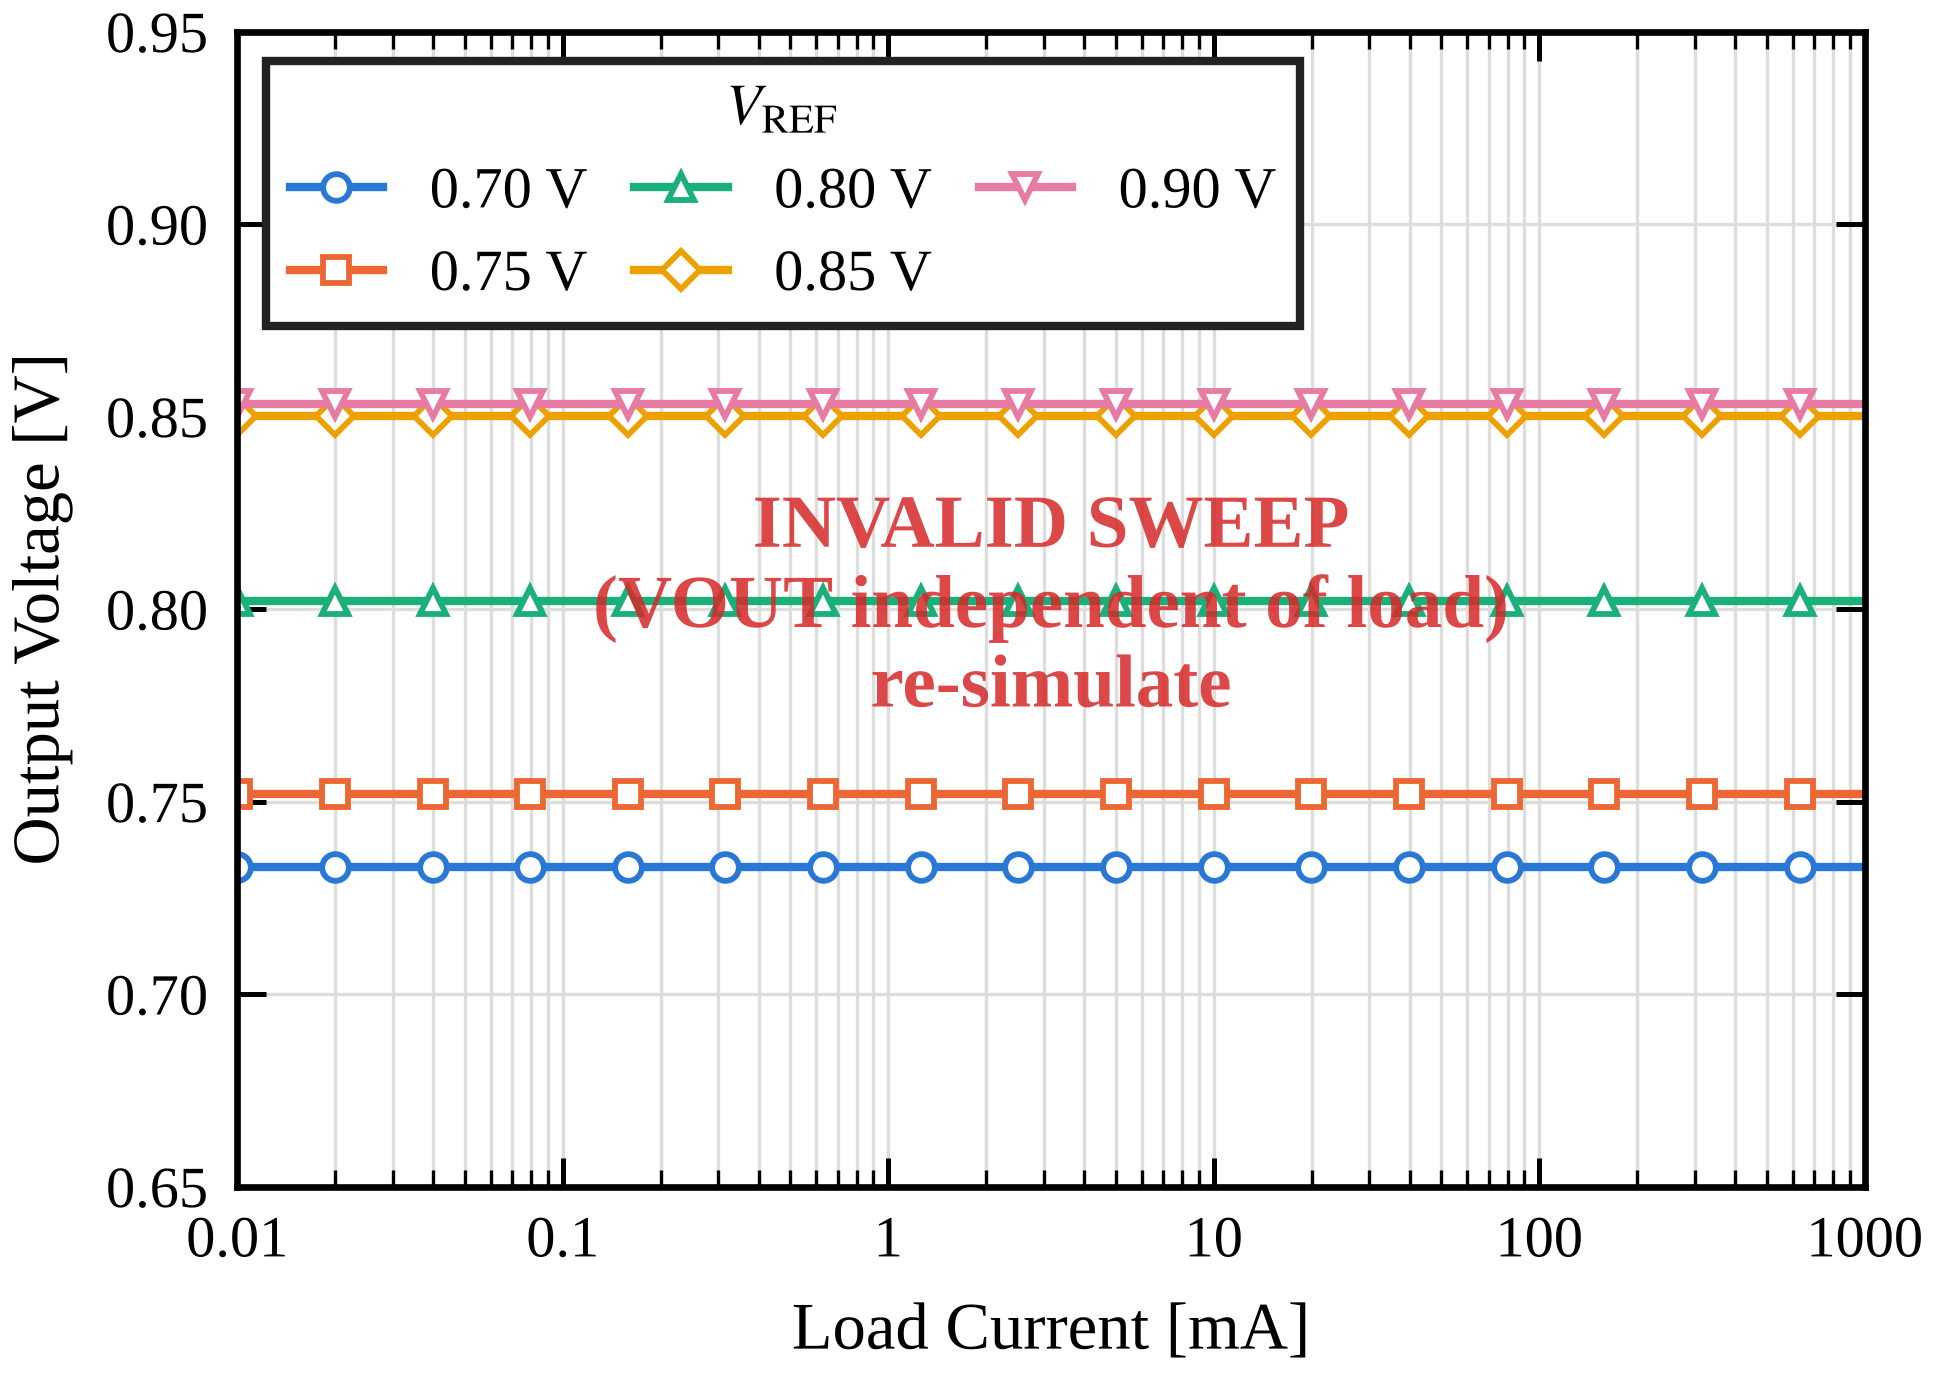
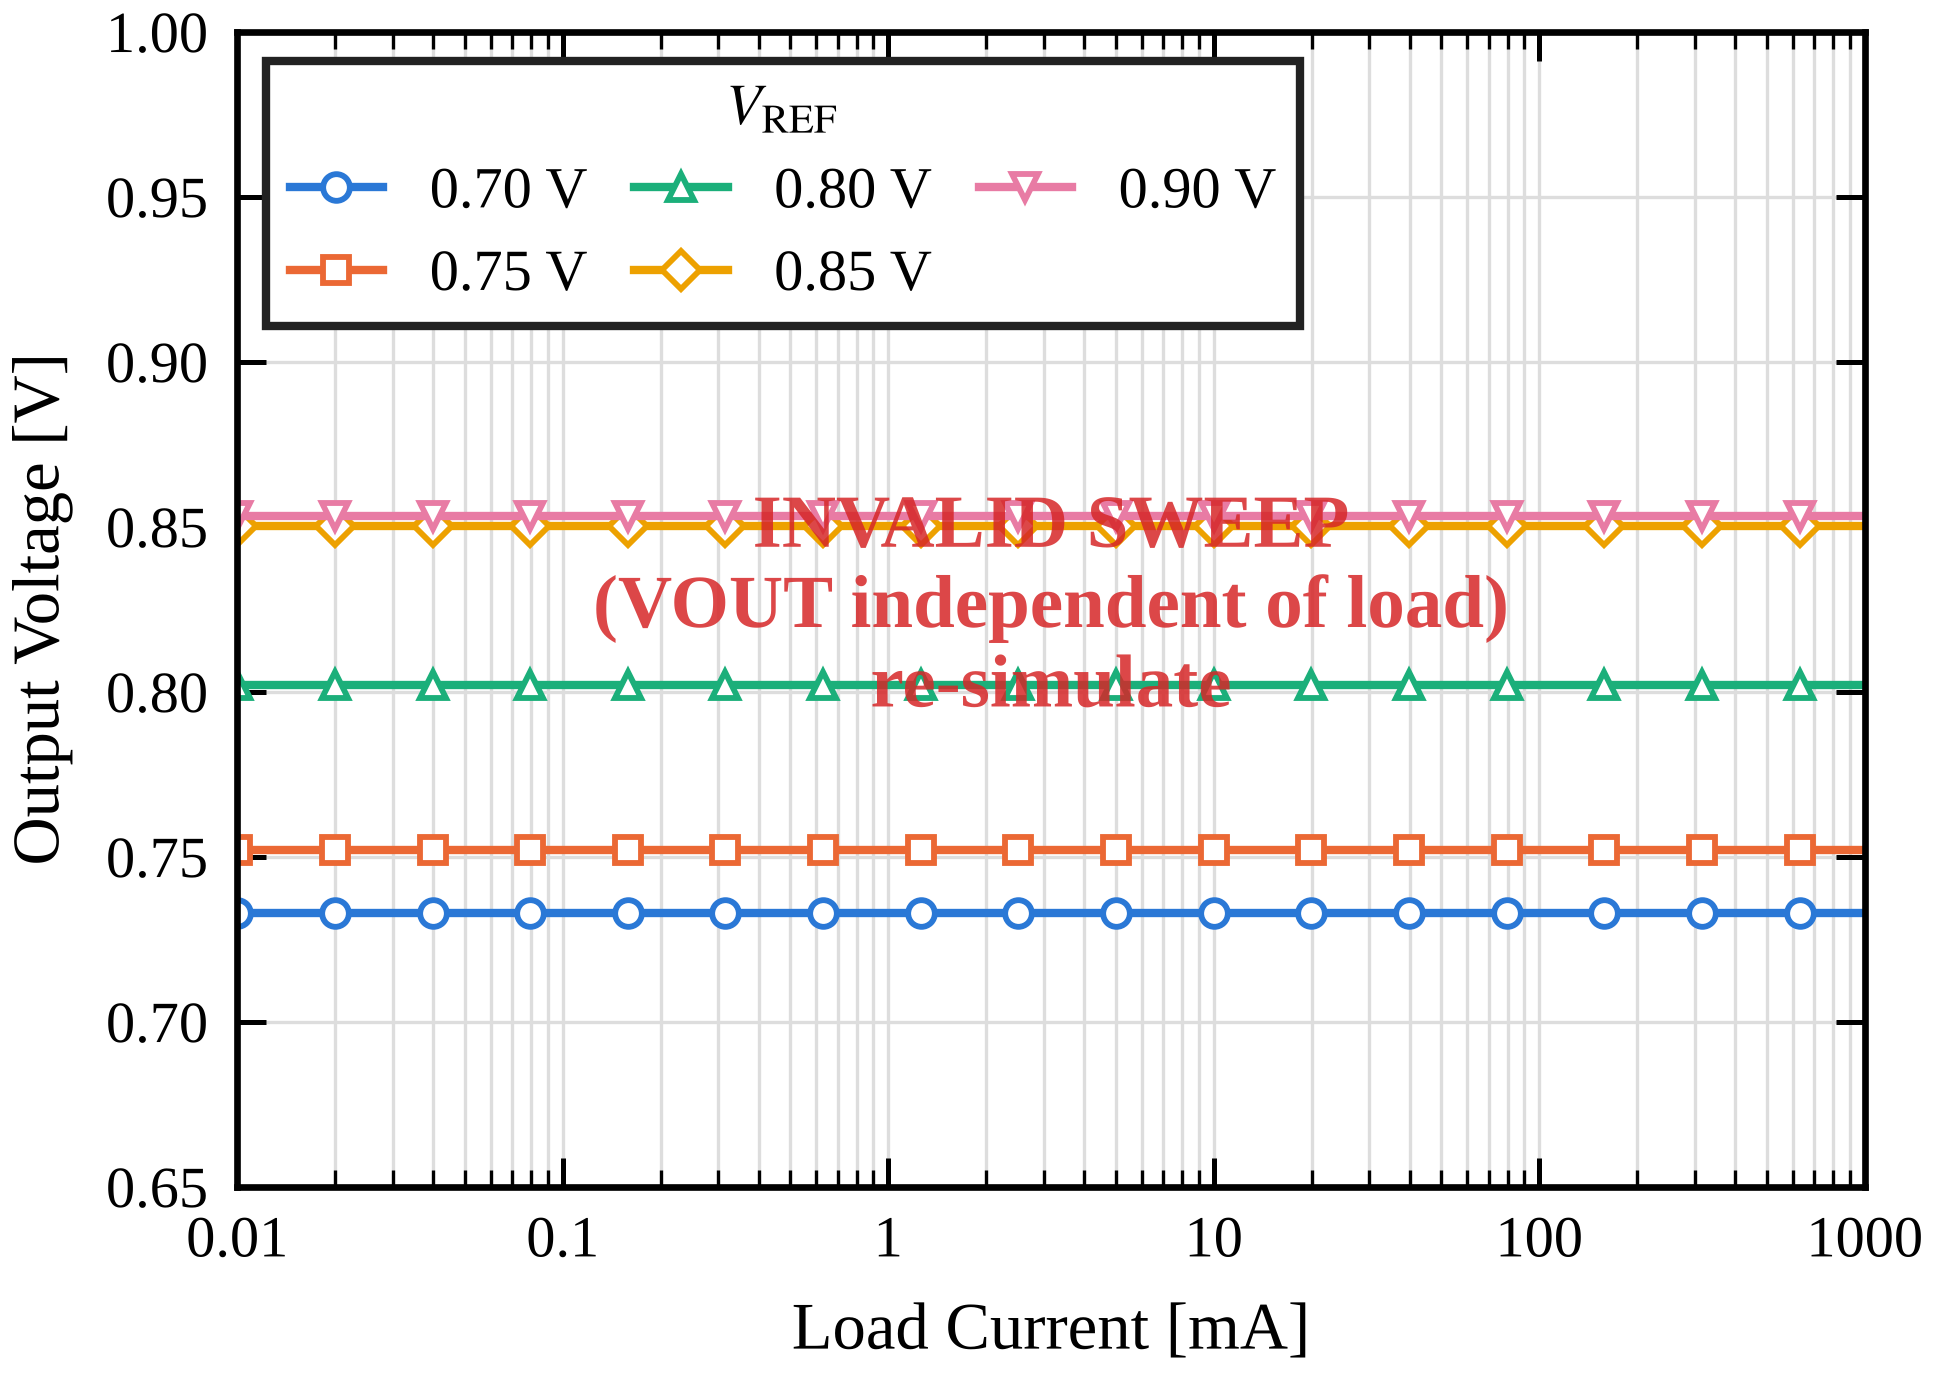
Compute load regulation, ILOAD,max and IQ/efficiency from DC-sweep CSVs
Drop .meas from the HSPICE deck; the script derives LDR, ILOAD,max
(VOUT < 0.99*VREF) and current efficiency (iq1.csv) directly.

Claude-Session: https://claude.ai/code/session_0185AipuuyvYgHtcdEt8xUkq

diff --git a/scripts/ldo_figures.py b/scripts/ldo_figures.py
@@ -232,26 +232,52 @@ def fig_line_reg():
 
 
 # ------------------------------------------------- 3. Load regulation ----
+def load_reg_metrics(x, v, vr, i_lo=100e-6, i_hi=100e-3):
+    """From a DC sweep VOUT(ILOAD): VOUT at i_lo / i_hi, LDR [mV/mA], ILOAD,max.
+
+    ILOAD,max = first load where VOUT falls below 0.99*VREF (log-interpolated);
+    LDR is taken between i_lo and min(i_hi, ILOAD,max).
+    """
+    lx = np.log10(x)
+    below = np.where(v < 0.99 * vr)[0]
+    if below.size and below[0] > 0:
+        k = below[0]
+        imax = 10 ** np.interp(0.99 * vr, [v[k], v[k - 1]], [lx[k], lx[k - 1]])
+    else:
+        imax = np.nan if below.size else np.inf          # nan: never regulates
+    hi = min(i_hi, imax) if np.isfinite(imax) else i_hi
+    v_lo = np.interp(np.log10(i_lo), lx, v)
+    v_hi = np.interp(np.log10(hi), lx, v)
+    ldr = (v_lo - v_hi) / (hi - i_lo)                    # V/A == mV/mA
+    return v_lo, v_hi, hi, ldr, imax
+
+
 def fig_load_reg():
     cols, d = load("loadR1.csv")
     x, V = d[:, 0], d[:, 1:]
     vref = [param(c) for c in cols[1:]]
     fig, ax = plt.subplots(figsize=(COL_W, 2.5))
     invalid = np.ptp(V, axis=0).max() < 1e-5
-    log("[Load regulation]  LDR = |dVOUT| / dILOAD over the sweep")
+    log("[Load regulation]  LDR = (VOUT(100uA) - VOUT(I_hi)) / (I_hi - 100uA), "
+        "I_hi = min(100 mA, ILOAD,max);  ILOAD,max: VOUT < 0.99*VREF")
     for k, (vr, v) in enumerate(zip(vref, V.T)):
         ax.semilogx(x * 1e3, v, color=SER[k], marker=MRK[k], markevery=6, mfc="white",
                     label=f"{vr:.2f} V")
-        ldr = abs(v[-1] - v[0]) / ((x[-1] - x[0]) * 1e3) * 1e3
+        v_lo, v_hi, hi, ldr, imax = load_reg_metrics(x, v, vr)
         if not invalid:
-            ax.text(x[-1] * 1e3 * 0.8, v[-1] + 0.008, f"{ldr:.3f} mV/mA", ha="right",
+            ax.text(x[-1] * 1e3 * 0.8, v_lo + 0.008, f"{ldr:.3f} mV/mA", ha="right",
                     va="bottom", fontsize=6.5)
-        log("  VREF=%3.0f mV  VOUT=%.1f mV  LDR=%.4f mV/mA" % (vr * 1e3, v[0] * 1e3, ldr))
+            if np.isfinite(imax):
+                ax.plot(imax * 1e3, 0.99 * vr, marker="x", color=INK, ms=4, zorder=5)
+        im = ("%.1f mA" % (imax * 1e3)) if np.isfinite(imax) else \
+            (">%.0f mA (sweep end)" % (x[-1] * 1e3) if np.isinf(imax) else "not regulating")
+        log("  VREF=%3.0f mV  VOUT(100uA)=%.2f mV  VOUT(%.0fmA)=%.2f mV  LDR=%.4f mV/mA  ILOAD,max=%s"
+            % (vr * 1e3, v_lo * 1e3, hi * 1e3, v_hi * 1e3, ldr, im))
     log_axis(ax)
     ax.set_xlabel("Load Current [mA]")
     ax.set_ylabel("Output Voltage [V]")
     ax.set_xlim(x[0] * 1e3, x[-1] * 1e3)
-    ax.set_ylim(0.65, 0.95)
+    ax.set_ylim(0.65, 1.0)
     ax.legend(title=r"$V_\mathrm{REF}$", title_fontsize=7, loc="upper left", ncol=3,
               columnspacing=0.8, handlelength=1.6)
     if invalid:
@@ -259,6 +285,9 @@ def fig_load_reg():
                 transform=ax.transAxes, ha="center", va="center", color=WARN,
                 fontsize=9, fontweight="bold", alpha=0.85)
         log("  !! VOUT does not change over the sweep -> load current not swept; re-simulate")
+    else:
+        ax.text(0.02, 0.04, r"$\times$: $I_\mathrm{LOAD,max}$ ($V_\mathrm{OUT}$ = 0.99$V_\mathrm{REF}$)",
+                transform=ax.transAxes, fontsize=6.5)
     save(fig, "fig3_load_regulation")
 
 
@@ -401,6 +430,8 @@ def fig_transient():
 
 # ----------------------------------------------- 6. Current efficiency ----
 def fig_efficiency():
+    if (DATA / "iq1.csv").exists():
+        return fig_efficiency_dc()
     cols, d = load("eff1.csv")
     t, I = d[:, 0], d[:, 1:]
     il = np.array([param(c) for c in cols[1:]])
@@ -430,9 +461,48 @@ def fig_efficiency():
             bbox=dict(boxstyle="square,pad=0.3", fc="white", ec=INK, lw=0.6))
     ax.legend(loc="lower right")
     save(fig, "fig7_current_efficiency")
-    log("[Current efficiency]")
-    for a, b, e in zip(x, q, eta):
-        log("  ILOAD=%8.3f mA  IQ=%.1f uA  eta=%.2f %%" % (a * 1e3, b * 1e6, e))
+    log("[Current efficiency]  (transient data eff1.csv)")
+    for a_, b_, e in zip(x, q, eta):
+        log("  ILOAD=%8.3f mA  IQ=%.1f uA  eta=%.2f %%" % (a_ * 1e3, b_ * 1e6, e))
+
+
+def fig_efficiency_dc():
+    """Current efficiency from the DC sweep: iq1.csv = i(vvss) vs ILOAD per VREF."""
+    cols, d = load("iq1.csv")
+    x, Q = d[:, 0], np.abs(d[:, 1:])
+    vref = [param(c) for c in cols[1:]]
+    # stop each curve where the LDO leaves regulation (from loadR1.csv, same sweep)
+    lc, ld = load("loadR1.csv")
+    imaxs = {}
+    for c, v in zip(lc[1:], ld[:, 1:].T):
+        imaxs[round(param(c), 4)] = load_reg_metrics(ld[:, 0], v, param(c))[4]
+    fig, ax = plt.subplots(figsize=(COL_W, 2.4))
+    log("[Current efficiency]  (DC sweep iq1.csv, eta = IL/(IL+IQ), up to ILOAD,max)")
+    best = (0, 0, 0)
+    for k, (vr, q) in enumerate(zip(vref, Q.T)):
+        im = imaxs.get(round(vr, 4), np.inf)
+        m = x <= (im if np.isfinite(im) else x[-1])
+        eta = x / (x + q) * 100
+        ax.semilogx(x[m] * 1e3, eta[m], color=SER[k], marker=MRK[k], markevery=6, mfc="white",
+                    label=f"{vr:.2f} V")
+        if m.any():
+            j = np.argmax(np.where(m, eta, -1))
+            best = max(best, (eta[j], x[j], vr))
+            log("  VREF=%3.0f mV  IQ(100uA)=%.1f uA  IQ(100mA)=%.1f uA  peak eta=%.2f %% @ %.1f mA"
+                % (vr * 1e3, np.interp(-4, np.log10(x), q) * 1e6,
+                   np.interp(-1, np.log10(x), q) * 1e6, eta[j], x[j] * 1e3))
+    log_axis(ax)
+    ax.set_xlim(x[0] * 1e3, x[-1] * 1e3)
+    ax.set_ylim(0, 102)
+    ax.set_xlabel("Load Current [mA]")
+    ax.set_ylabel("Current Efficiency [%]")
+    ax.legend(title=r"$V_\mathrm{REF}$", title_fontsize=7, loc="lower right", ncol=2,
+              columnspacing=0.8, handlelength=1.6)
+    ax.text(0.03, 0.95, f"Peak Efficiency = {best[0]:.2f}%\n"
+            rf"@ $I_\mathrm{{LOAD}}$ = {best[1]*1e3:.0f} mA",
+            transform=ax.transAxes, va="top", fontsize=7,
+            bbox=dict(boxstyle="square,pad=0.3", fc="white", ec=INK, lw=0.6))
+    save(fig, "fig7_current_efficiency")
 
 
 # ---------------------------------------------------------- 7. Stability ----

diff --git a/README.md b/README.md
@@ -12,10 +12,10 @@ Serif / DejaVu Serif when Times is not installed).
 |---|---|---|
 | fig1_max_load | maxload1.csv | (a) VOUT for load steps 150 µA → 10–150 mA, (b) steady-state / minimum VOUT vs ILOAD |
 | fig2_line_regulation | linR1.csv | VOUT vs VIN, VREF = 0.70–0.90 V |
-| fig3_load_regulation | loadR1.csv | VOUT vs ILOAD, VREF = 0.70–0.90 V |
+| fig3_load_regulation | loadR1.csv (DC sweep, `sim/loadreg_dc.sp`) | VOUT vs ILOAD per VREF, LDR [mV/mA], ILOAD,max |
 | fig4_psr | psr1.csv | PSR at ILOAD = 100 µA and 50 mA |
 | fig5_transient | tr1.csv | VOUT (0.8 V / 0.9 V) and ILOAD, 150 µA ↔ 10 mA |
 | fig6_transient_zoom | tr1.csv | zoom on rising (a) and falling (b) load steps |
-| fig7_current_efficiency | eff1.csv | Iq and current efficiency vs ILOAD |
+| fig7_current_efficiency | iq1.csv (DC sweep, preferred) or eff1.csv | current efficiency vs ILOAD |
 | fig8a_stability_overall_loop | stb1.csv | overall loop gain & phase vs ILOAD (phase column was exported as 20·log10(\|phase\|); the script undoes it) |
 | fig8b_stability_fast_loop | f_stb1.csv | fast (FVF) loop gain & phase vs ILOAD |
